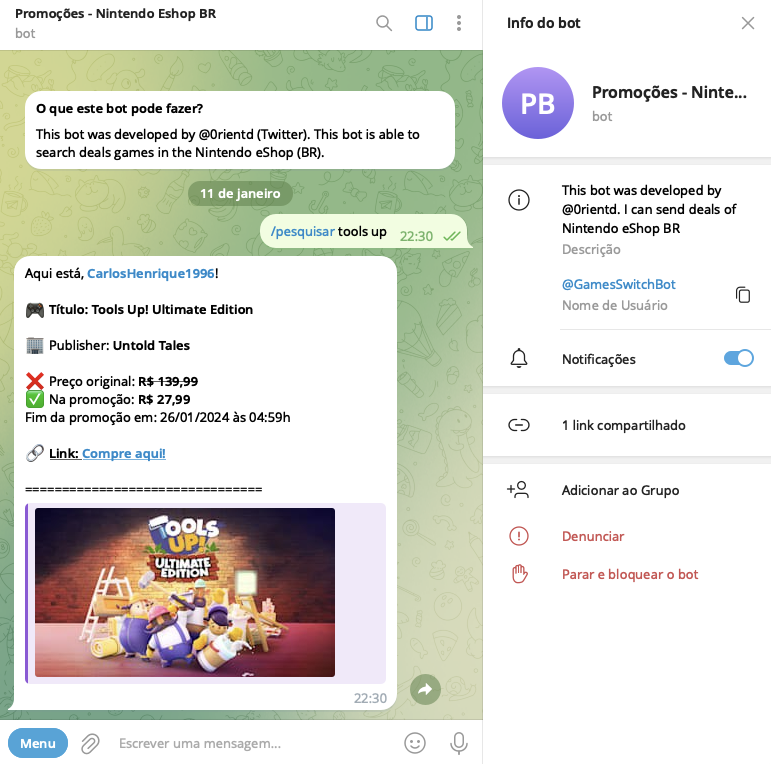
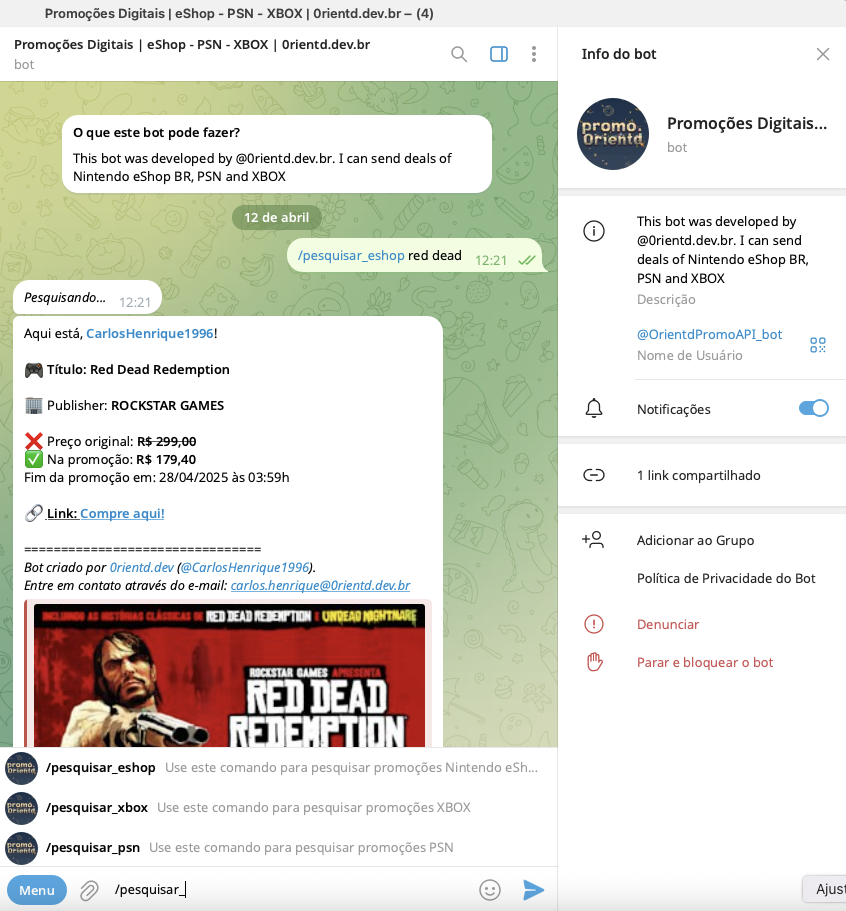
feita atualização nos links e textos

diff --git a/index.html b/index.html
@@ -31,11 +31,11 @@
             <div class="container px-4 px-lg-5 text-center">
                 <div class="row gx-4 gx-lg-5 justify-content-center">
                     <div class="col-lg-10">
-                        <h2>Sou desenvolvedor com experiência em construir sites e sistemas que buscam maximizar a produtividade</h2>
+                        <h2>Especializado em criar soluções digitais</h2>
                         <p class="lead mb-5">
-                            Com diversos projetos desenvolvidos, tenho experiência em automações de tarefas, desenvolvimento de sistemas, sites e integrações de sistemas.
+                            Desenvolvo sites, sistemas e automações que ajudam sua empresa a crescer no mundo digital. Seja para divulgar promoções de jogos, criar um blog sobre games ou automatizar tarefas do seu negócio.<br/>Posso ajudar a transformar suas ideias em realidade!
                         </p>
-                        <a class="btn btn-dark btn-xl" href="#services">Veja alguns exemplos</a>
+                        <a class="btn btn-primary btn-xl" href="#services">Veja alguns exemplos</a>
                     </div>
                 </div>
             </div>
@@ -54,7 +54,7 @@
                                 <path stroke-linecap="round" stroke-linejoin="round" d="m6.75 7.5 3 2.25-3 2.25m4.5 0h3m-9 8.25h13.5A2.25 2.25 0 0 0 21 18V6a2.25 2.25 0 0 0-2.25-2.25H5.25A2.25 2.25 0 0 0 3 6v12a2.25 2.25 0 0 0 2.25 2.25Z" />
                             </svg>                              
                         </span>
-                        <h4><strong>API para consulta de promoções de jogos da Nintendo/PSN</strong></h4>
+                        <h4><strong>API para consulta de promoções de jogos da Nintendo/PSN/XBOX</strong></h4>
                         <p class="text-faded mb-0">Você pode integrar as promoções em tempo real direto no seu site!</p>
                     </div>
                     <div class="col-lg-3 col-md-6 mb-5 mb-lg-0">
@@ -64,7 +64,7 @@
                             </svg>                              
                         </span>
                         <h4><strong>Criação de sites e sistemas completo</strong></h4>
-                        <p class="text-faded mb-0">Podemos criar juntos um sistema para sua empresa ou até mesmo o site para sua marca!</p>
+                        <p class="text-faded mb-0">Podemos criar juntos um sistema para sua empresa ou até mesmo o site para sua marca!<br/>Veja um exemplo: <a href="https://promo.0rientd.dev.br" target="_blank">promo.0rientd.dev.br</a></p>
                     </div>
                     <div class="col-lg-3 col-md-6 mb-5 mb-md-0">
                         <span class="service-icon rounded-circle mx-auto mb-3">
@@ -74,7 +74,7 @@
                         </span>
                         <h4><strong>Bots customizáveis para o Telegram</strong></h4>
                         <p class="text-faded mb-0">
-                            Automatize o envio de mensagens/perguntas, como o disponível em: <a href="https://t.me/GamesSwitchBot" target="_blank">https://t.me/GamesSwitchBot</a>
+                            Automatize o envio de mensagens/perguntas, como o disponível em: <a href="https://t.me/OrientdPromoAPI_bot" target="_blank">https://t.me/OrientdPromoAPI_bot</a>
                         </p>
                     </div>
                 </div>
@@ -97,8 +97,8 @@
         <section class="content-section bg-light" id="portfolio">
             <div class="container px-4 px-lg-5">
                 <div class="content-section-heading text-center">
-                    <h3 class="text-secondary mb-0">Portfolio</h3>
-                    <h2 class="mb-5">Veja algumas imagens!</h2>
+                    <h3 class="text-secondary mb-0">O que podemos fazer juntos?</h3>
+                    <h2 class="mb-5">Veja algumas idéias para você!</h2>
                 </div>
                 <div class="row gx-0">
                     <div class="col-lg-6">
@@ -110,8 +110,8 @@
                         <a class="portfolio-item" href="#!">
                             <div class="caption">
                                 <div class="caption-content">
-                                    <div class="h2">Bot para Telegram</div>
-                                    <p class="mb-0">Um bot que pesquisa jogos em promoção em tempo real!</p>
+                                    <div class="h2">Bots para Telegram</div>
+                                    <p class="mb-0">Tenha um bot interativo que entregue as melhores promoções para seu público!</p>
                                 </div>
                             </div>
                             <img class="img-fluid" src="assets/img/portfolio-2.jpg" alt="Imagem do bot para Telegram buscando um jogo em tempo real" />
@@ -121,22 +121,22 @@
                         <a class="portfolio-item" href="#!">
                             <div class="caption">
                                 <div class="caption-content">
-                                    <div class="h2">Página de promoções</div>
-                                    <p class="mb-0">Uma página feita para ser integrada ao site do Nintendo Barato</p>
+                                    <div class="h2">API para integrações em sites e apps</div>
+                                    <p class="mb-0">Utilize nossa API para ter as últimas promoções em seu site ou app!</p>
                                 </div>
                             </div>
-                            <img class="img-fluid-2" src="assets/img/portfolio-3.jpg" alt="Imagem da página criada para o Nintendo Barato" />
+                            <img class="img-fluid-2" src="assets/img/portfolio-4.jpg" alt="Imagem da página de resposta do servidor de API" />
                         </a>
                     </div>
                     <div class="col-lg-6">
                         <a class="portfolio-item" href="#!">
                             <div class="caption">
                                 <div class="caption-content">
-                                    <div class="h2">API para integrações</div>
-                                    <p class="mb-0">API para integrar e disponibilizar as promoções em seu site!</p>
+                                    <div class="h2">Construção de página de promoções</div>
+                                    <p class="mb-0">Um exemplo, foi uma página feita para ser integrada ao site do Nintendo Barato (Coelho no Japão)</p>
                                 </div>
                             </div>
-                            <img class="img-fluid-2" src="assets/img/portfolio-4.jpg" alt="Imagem da página de resposta do servidor de API" />
+                            <img class="img-fluid-2" src="assets/img/portfolio-3.jpg" alt="Imagem da página criada para o Nintendo Barato" />
                         </a>
                     </div>
                 </div>
@@ -153,6 +153,7 @@
         <!-- Footer-->
         <footer class="footer text-center">
             <div class="container px-4 px-lg-5">
+                <h2>OUTROS LINKS ÚTEIS</h2>
                 <ul class="list-inline mb-5">
                     <li class="list-inline-item">
                         <a class="social-link rounded-circle text-white mr-3" href="https://www.linkedin.com/in/carlos-0rientd-henrique-dev/" target="_blank"><i class="icon-social-linkedin"></i></a>
